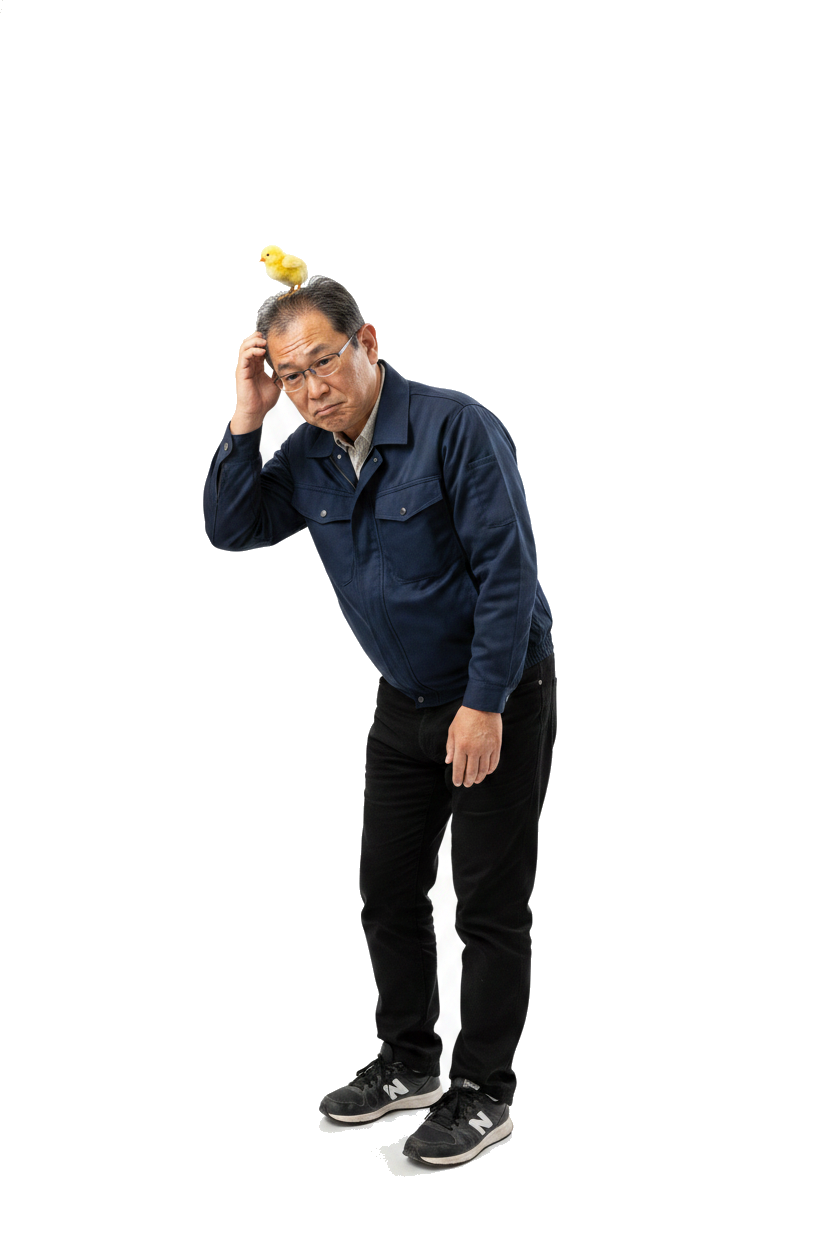
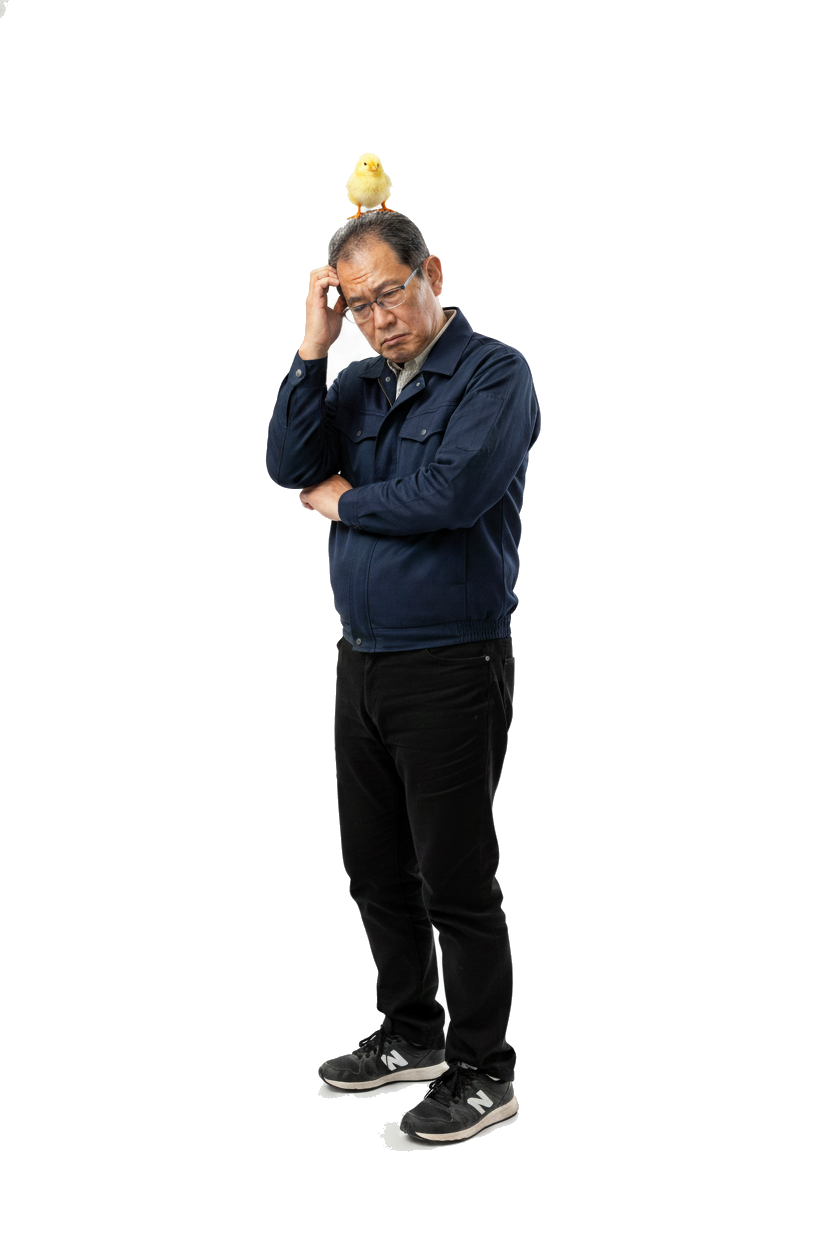
fix(plaza): 悩み栄太郎のポーズをv2に戻し、ヒヨコだけ追加合成
問題: v3 で再生成したらポーズが変わってしまった (額に手→頭頂部に手等)。
対応: scripts/add-chick-to-worried.js を新規作成し、承認済みv2を入力に
ヒヨコ1羽だけ追加するGemini image edit に変更。
temperature 0.4 + 「他は一切変更禁止」プロンプトでポーズ完全維持。

Changed region(s): [[0.2188, 0.125, 0.6875, 0.9688]]

diff --git a/scripts/add-chick-to-worried.js b/scripts/add-chick-to-worried.js
@@ -1,0 +1,126 @@
+#!/usr/bin/env node
+// 承認済みの「悩み栄太郎」画像 (eitaro_worried.png.bak.<timestamp>) を入力に、
+// 頭頂部に黄色いヒヨコ1羽だけ合成する。ポーズ・顔・服装・背景は完全維持。
+// 実行: cd /opt/cohub && node scripts/add-chick-to-worried.js <backup_filename>
+
+require('dotenv').config();
+const fs = require('fs');
+const path = require('path');
+
+const SRC_ARG = process.argv[2];
+if (!SRC_ARG) {
+  console.error('Usage: node scripts/add-chick-to-worried.js <backup_filename_in_public/assets>');
+  process.exit(1);
+}
+const SRC_FILE = path.join(__dirname, '..', 'public', 'assets', SRC_ARG);
+const OUT_FILE = path.join(__dirname, '..', 'public', 'assets', 'eitaro_worried.png');
+
+const PROMPT = `You are given a photorealistic image of a worried middle-aged Japanese man (栄太郎) standing on a pure white background, one hand on his temple in a troubled "うーん…" pose.
+
+ADD EXACTLY ONE small fluffy baby chick (ひな鳥/ヒヨコ) sitting calmly on the very top of his head. Specifications:
+- Single chick only — exactly one
+- Round, fluffy, bright yellow body, tiny orange beak, tiny orange feet, small round black eyes
+- Sized about 1/4 of his head's width — small and cute, not exaggerated
+- Sits naturally on his hair as if perched there
+- The ENTIRE chick (head to feet) must be inside the frame — DO NOT crop the chick at the top edge. If needed, slightly shift the man downward so there is ~12% padding above the chick.
+
+PRESERVATION REQUIREMENTS (CRITICAL):
+- DO NOT change the man's face, hair, glasses, expression, clothing, hand position, body lean, leg stance, or anything else about him.
+- DO NOT change the white background — keep it pure solid white #FFFFFF for chroma-key.
+- DO NOT add any text, speech bubbles, hats, extra props, other animals, or extra people.
+- DO NOT change the aspect ratio or framing of the man — only add the chick on top and adjust crop padding if necessary.
+- DO NOT recolor the photo.`;
+
+(async () => {
+  const apiKey = process.env.GEMINI_API_KEY;
+  if (!apiKey) { console.error('GEMINI_API_KEY not set'); process.exit(1); }
+  if (!fs.existsSync(SRC_FILE)) { console.error('Source not found:', SRC_FILE); process.exit(1); }
+
+  const srcMime = SRC_FILE.toLowerCase().endsWith('.jpg') ? 'image/jpeg' : 'image/png';
+  const srcB64 = fs.readFileSync(SRC_FILE).toString('base64');
+
+  // 既存出力をバックアップ
+  if (fs.existsSync(OUT_FILE)) {
+    const ts = new Date().toISOString().replace(/[:.]/g, '-').slice(0, 19);
+    fs.copyFileSync(OUT_FILE, OUT_FILE + '.bak.' + ts);
+    console.log('backup:', OUT_FILE + '.bak.' + ts);
+  }
+
+  const body = {
+    contents: [{
+      parts: [
+        { text: PROMPT },
+        { inlineData: { mimeType: srcMime, data: srcB64 } },
+      ]
+    }],
+    generationConfig: {
+      responseModalities: ['IMAGE', 'TEXT'],
+      temperature: 0.4,
+      imageConfig: { aspectRatio: '2:3' },
+    },
+  };
+  console.log('Calling Gemini to add a chick on the head...');
+  const r = await fetch('https://generativelanguage.googleapis.com/v1beta/models/gemini-2.5-flash-image:generateContent?key=' + apiKey, {
+    method: 'POST',
+    headers: { 'Content-Type': 'application/json' },
+    body: JSON.stringify(body),
+  });
+  if (!r.ok) { console.error('HTTP', r.status, (await r.text()).slice(0, 600)); process.exit(1); }
+  const d = await r.json();
+  const parts = d.candidates && d.candidates[0] && d.candidates[0].content && d.candidates[0].content.parts;
+  if (!parts) { console.error('no parts'); process.exit(1); }
+
+  let buf = null;
+  for (const p of parts) {
+    const inline = p.inlineData || p.inline_data;
+    if (inline && inline.data) { buf = Buffer.from(inline.data, 'base64'); break; }
+  }
+  if (!buf) { console.error('no image returned'); process.exit(1); }
+
+  const rawFile = OUT_FILE + '.raw.png';
+  fs.writeFileSync(rawFile, buf);
+  console.log('raw saved:', rawFile, buf.length, 'bytes');
+
+  console.log('Applying four-corner flood-fill transparency...');
+  const { PNG } = require('pngjs');
+  const png = PNG.sync.read(fs.readFileSync(rawFile));
+  const { width, height, data } = png;
+  const visited = new Uint8Array(width * height);
+  const TOL = 32;
+  const isBg = (idx) => {
+    const r = data[idx], g = data[idx + 1], b = data[idx + 2];
+    return r >= 255 - TOL && g >= 255 - TOL && b >= 255 - TOL;
+  };
+  const stack = [[0, 0], [width - 1, 0], [0, height - 1], [width - 1, height - 1]];
+  while (stack.length) {
+    const [x, y] = stack.pop();
+    if (x < 0 || y < 0 || x >= width || y >= height) continue;
+    const pi = y * width + x;
+    if (visited[pi]) continue;
+    const di = pi * 4;
+    if (!isBg(di)) continue;
+    visited[pi] = 1;
+    data[di + 3] = 0;
+    stack.push([x + 1, y], [x - 1, y], [x, y + 1], [x, y - 1]);
+  }
+  for (let y = 0; y < height; y++) {
+    for (let x = 0; x < width; x++) {
+      const pi = y * width + x;
+      if (visited[pi]) continue;
+      const di = pi * 4;
+      const r = data[di], g = data[di + 1], b = data[di + 2];
+      if (r >= 240 && g >= 240 && b >= 240) {
+        const neighbors = [[1,0],[-1,0],[0,1],[0,-1]];
+        let touchesBg = false;
+        for (const [dx, dy] of neighbors) {
+          const nx = x + dx, ny = y + dy;
+          if (nx < 0 || ny < 0 || nx >= width || ny >= height) continue;
+          if (visited[ny * width + nx]) { touchesBg = true; break; }
+        }
+        if (touchesBg) data[di + 3] = Math.round(((Math.min(r, g, b) - 240) / 15) * 255);
+      }
+    }
+  }
+  fs.writeFileSync(OUT_FILE, PNG.sync.write(png));
+  console.log('saved transparent:', OUT_FILE, fs.statSync(OUT_FILE).size, 'bytes');
+})();

diff --git a/public/plaza.html b/public/plaza.html
@@ -775,7 +775,7 @@ function setTab(t) {
 // タブ別の栄太郎ヒーロー設定
 const EITARO_PRESETS = {
   '食事':    { img: '/assets/eitaro_stuffed.png?v=2', alt: '栄太郎(満腹)',     text: '食べ過ぎたぁ〜',   sub: 'ごちそうさまでした…' },
-  '相談':    { img: '/assets/eitaro_worried.png?v=3', alt: '栄太郎(悩み中)',   text: 'うーん…どうしよう', sub: '誰かに相談してみよう' },
+  '相談':    { img: '/assets/eitaro_worried.png?v=4', alt: '栄太郎(悩み中)',   text: 'うーん…どうしよう', sub: '誰かに相談してみよう' },
   '雑談':    { img: '/assets/eitaro_stuffed.png?v=2', alt: '栄太郎',            text: 'おーい、みんな〜',  sub: 'なんか話そう' },
   '健康Tips': { img: '/assets/eitaro_stuffed.png?v=2', alt: '栄太郎',           text: 'なるほど〜',        sub: '勉強になるなぁ' },
   'all':     { img: '/assets/eitaro_stuffed.png?v=2', alt: '栄太郎(満腹)',     text: '食べ過ぎたぁ〜',   sub: 'ごちそうさまでした…' },

diff --git a/server/index.js b/server/index.js
@@ -296,7 +296,7 @@ const MINIMAL_MODE = process.env.MINIMAL_MODE === '1';
 
 // アプリ全体のバージョン。デプロイ時にbumpして、クライアントは値が変わったら自動リロード
 // (古い HTML を使い続けるメンバー対策)
-const APP_VERSION = "2026-05-21-eitaro-worried-chick";
+const APP_VERSION = "2026-05-21-eitaro-chick-v4";
 app.get('/api/version', (req, res) => {
   res.set('Cache-Control', 'no-store');
   res.json({ success: true, version: APP_VERSION });
